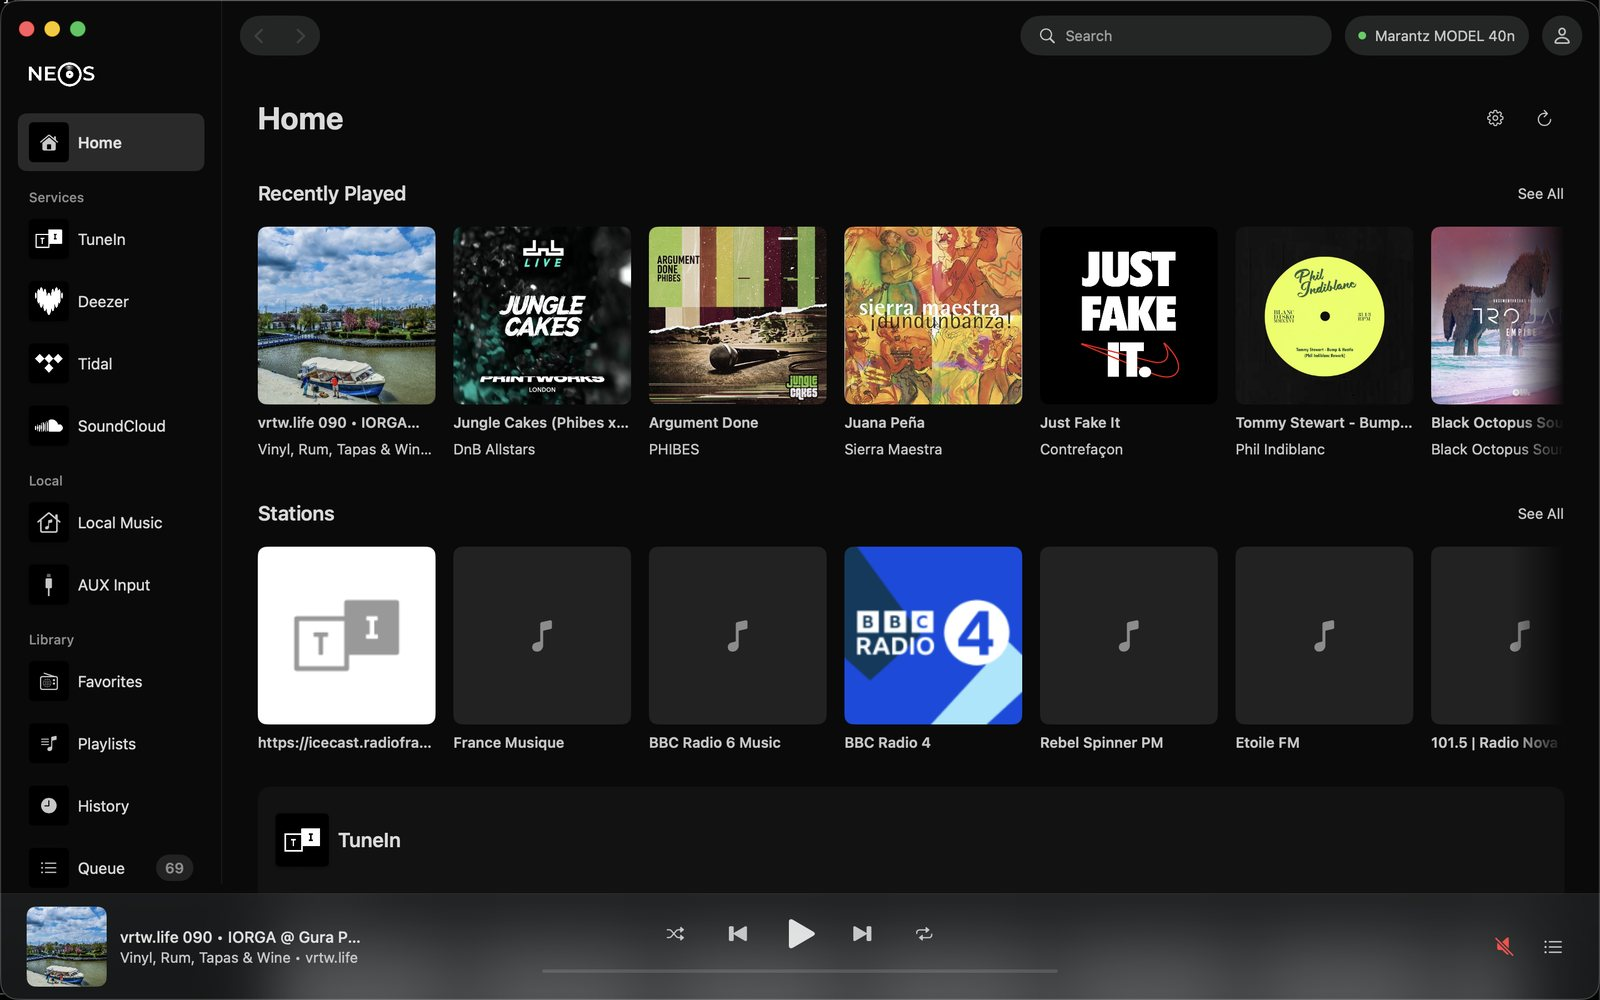
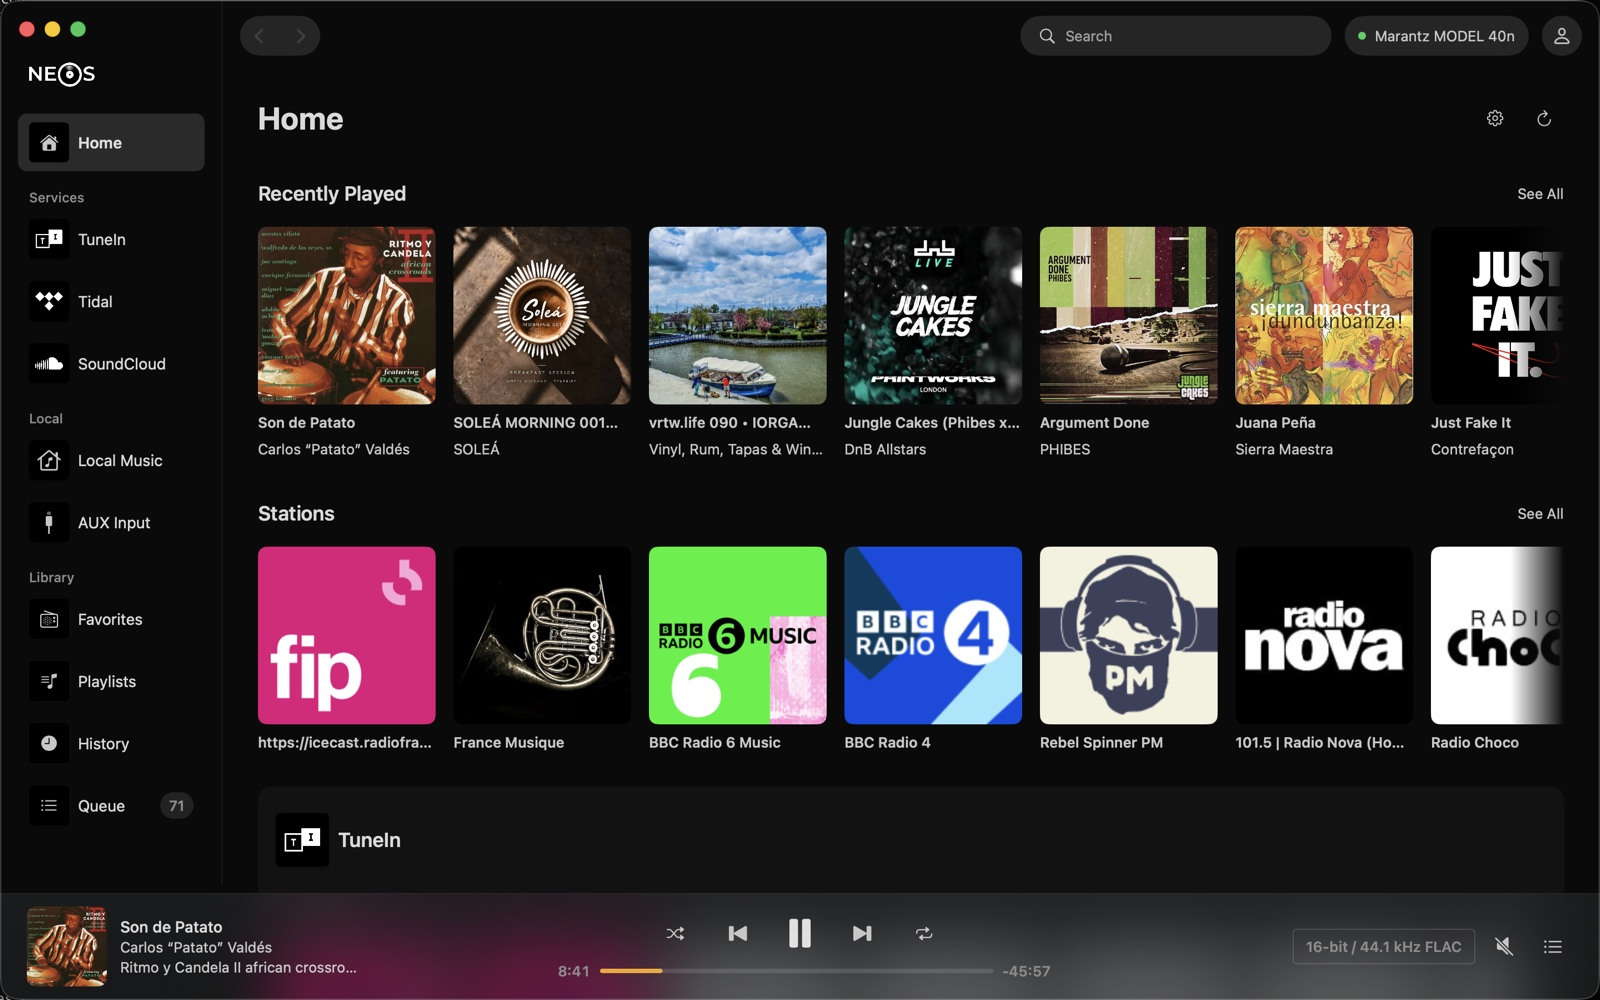
Refresh the site screenshots and add the NAS album, queue, settings and speaker views

diff --git a/site/index.html b/site/index.html
@@ -57,8 +57,16 @@
     </section>
 
     <div class="pair">
-      <img class="shot" src="images/search.jpg" alt="Search results across TuneIn and Deezer" width="1600" height="1000">
+      <img class="shot" src="images/search.jpg" alt="Search results for an artist, filtered to Tidal" width="1600" height="1000">
+      <img class="shot" src="images/nas-album.jpg" alt="An album from a music server on the local network" width="1600" height="1000">
+    </div>
+    <div class="pair">
+      <img class="shot" src="images/queue.jpg" alt="The speaker's queue open next to the home screen" width="1600" height="1000">
       <img class="shot" src="images/now-playing.jpg" alt="Full-window now playing view" width="1600" height="1000">
+    </div>
+    <div class="pair">
+      <img class="shot" src="images/settings.jpg" alt="Settings: services and local music servers" width="1600" height="1000">
+      <img class="shot" src="images/speakers.jpg" alt="Players and speaker groups with their volumes" width="1600" height="1000">
     </div>
   </div>
 
